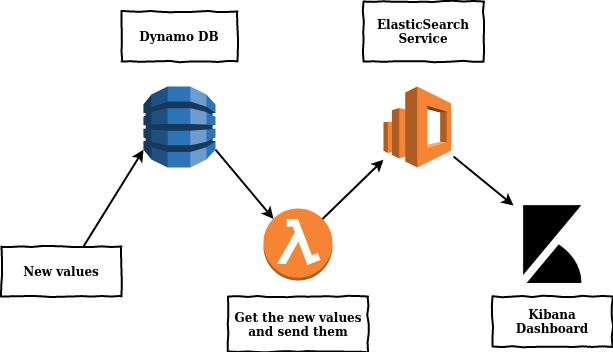
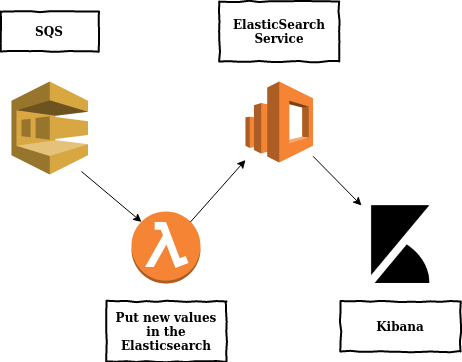
new part 3

diff --git a/Part_Three.md b/Part_Three.md
@@ -4,11 +4,12 @@ Simple setup for a Kibana dashboard with ElasticSearch Service
 ### What you will know
 ![global schema](images/rapport3.png)
 
-### From DynamoDB to ElasticSearch Service
-The dynamoDB already created is used as trigger for a new lambda function, to send the ElasticSearch Service (ES), this function needs a role, with access to the DynamoDB, and the ES
+### From Sqs to ElasticSearch Service
+The Sqs and the function behind are the ones of **Part Two**.
+The lambda function don't use the client 'elasticsearch-py' but classic requests instead. The values are included in the ElasticSearch only if they are new.
 
 ### ElasticSearch Service
 At the creation of the ES, you will need to chose the identification method to allow peoples, including you, to access the ES and the kibana, when the ES is online, you can access to the kibana with the link under the arn, in the overview pannel.
 
 ### Kibana Dashboard
-Connect to your Elasticsearch data with the connection with their index, then use the pannels on the left side to create dashboard and visualisations 
+Connect to your Elasticsearch data with the connection with their index, then use the pannels on the left side to create dashboard and visualisations, verify that the type of your values are recognized by kibana (especialy date or number) to allow a smooth visualisation creation.
